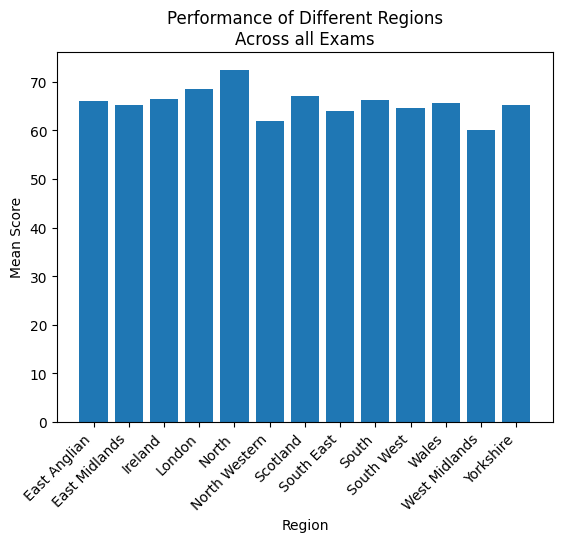
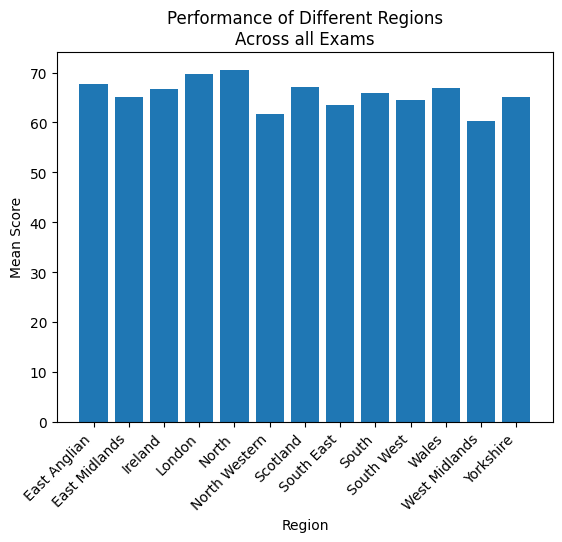
add final plots for pres 4

diff --git a/src/diff_private.py b/src/diff_private.py
@@ -69,9 +69,6 @@ def get_dp_mean(
     df[error_key] = df["gs"].apply(lambda x: (2 * (x / epsilon)) ** 2)
 
 
-# TODO add timing
-
-
 def student_scores_vs_learning(epsilon):
     ti = time.time()
 
@@ -435,19 +432,20 @@ def main():
         region_exam_performance, [0.1, 0.3, 0.5, 0.7, 0.9], "Region Exam Performance"
     )
     plot_err_runtime(region_learning, [5, 10, 15, 20, 25], "Region Learning")
-    # plot_err_runtime(
-    #     perc_till_deadline,
-    #     [5, 50],
-    #     "Assessment Performance Related To Deadline"
-    # )
+    plot_err_runtime(
+        perc_till_deadline,
+        [0.01, 0.02, 0.03, 0.05, 0.1],
+        "Assessment Performance Related To Deadline",
+    )
 
     # we want to call the query functions with the best
-    # epsilons at the end for our plots for the slides 
-    student_scores_vs_learning(0)
-    age_exam_performance(0)
-    region_exam_performance(0)
-    region_learning(0)
-    perc_till_deadline(0)
+    # epsilons at the end for our plots for the slides
+    # this will also print the errors 
+    print(student_scores_vs_learning(40)[0])
+    print(age_exam_performance(0.5)[0])
+    print(region_exam_performance(0.3)[0])
+    print(region_learning(10)[0])
+    print(perc_till_deadline(0.03)[0])
 
     end_timing()
 
